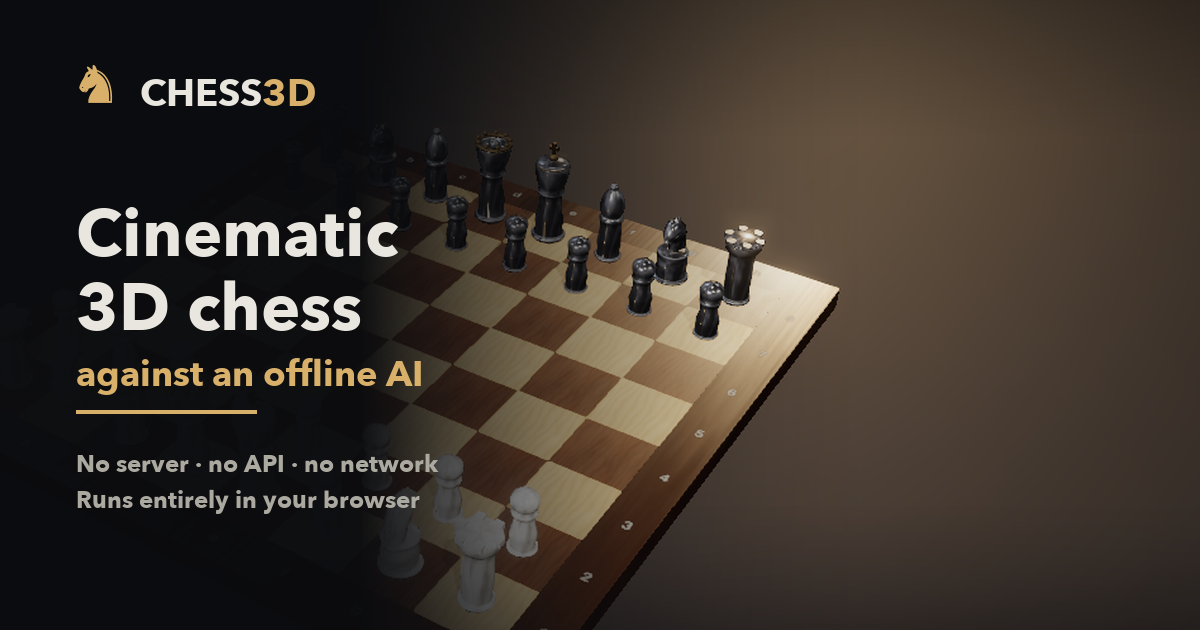
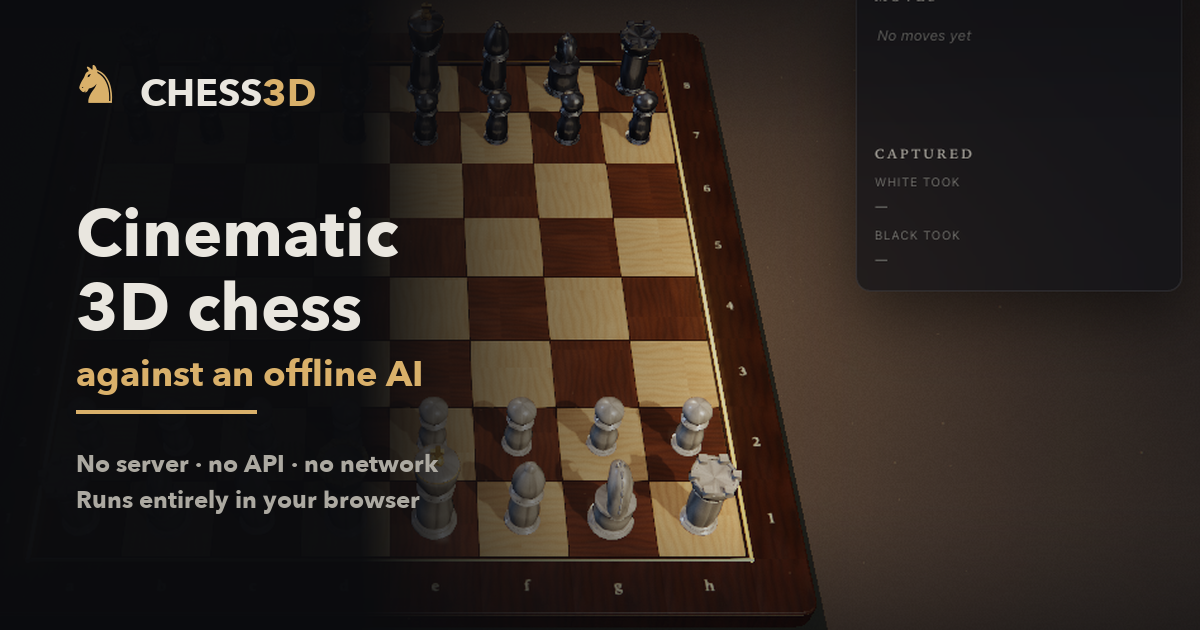
Show the current build in the README, and document how to capture it
The README's hero image and social card were captured on 16 September, before
the studio-lighting pass and the work on the piece profiles, so the first thing
a visitor saw was a build that no longer exists. Both are regenerated from the
current app at 1280x720; the card is composed from the same capture, exactly as
the README always claimed it could be.

tools/shot.mjs is what makes that reproducible. It drives a headless Chrome over
the DevTools Protocol, waits for the controller to reach a playable phase, checks
the canvas is the requested size, and waits for the camera to stop moving before
capturing. It refuses to write a frame from a page that never rendered and exits
non-zero on console errors, because a screenshot of a broken page still looks
plausible. Chrome's one-shot --screenshot mode hangs on this machine's WebGL
path, which is why the capture step was missing in the first place.

The Testing section now also describes what the geometry suite pins about the
cut edges, the hand-worked warp and build-order determinism.

diff --git a/README.md b/README.md
@@ -259,7 +259,12 @@ Eight suites run in plain Node:
   every test position, and must beat a random mover from the stronger tiers.
 - `tests/geometry.test.mjs` — the generated pieces must be closed solids wound
   outward, reach their declared heights, overlap their pedestals, taper in three
-  dimensions, and shade smoothly rather than faceted. These assertions caught
+  dimensions, and shade smoothly rather than faceted. Once the profiles became
+  cut work it also pins the surface finish: every piece must keep at least 128
+  coincident-but-disagreeing vertices (the arrises), the sharpest must exceed 45
+  degrees, the rook's straight body must report none of them, the hand-worked
+  warp must stay between 0.2% and 3% of the radius, and a piece must come out
+  identical whether it is the first or the fifth built. These assertions caught
   three real bugs after visual review had already passed the same builds: an
   inward-wound knight head that back-face culling hid entirely, a non-indexed
   merge that flattened its shading, and ears seated inside the skull.
@@ -398,12 +403,27 @@ image goes missing or the URLs drift from the deployed origin.
 
 ### Regenerating the images
 
+Two steps: capture the app, then compose the card.
+
 ```bash
-python3 tools/make-social-images.py   # needs Pillow and docs/hero-render.png
+# 1. capture the live app (needs a headless Chrome exposing CDP)
+npm run serve
+"/Applications/Google Chrome.app/Contents/MacOS/Google Chrome" \
+  --headless=new --remote-debugging-port=9222 \
+  --user-data-dir=/tmp/chess3d-cdp --window-size=1280,720 about:blank &
+node tools/shot.mjs --out docs/screenshot.png
+
+# 2. compose the social card from that capture (needs Pillow)
+cp docs/screenshot.png /tmp/hero-render.png
+python3 tools/make-social-images.py
 ```
 
-The script composes the card from a captured 3D render, so it can be rebuilt at
-any time rather than being a hand-edited binary.
+`tools/shot.mjs` waits for the controller to reach a playable phase, checks the
+canvas is the requested size, and waits for the camera to stop moving before it
+captures. It refuses to write a frame from a page that never rendered, and it
+exits non-zero if the console logged an error or a warning — a screenshot of a
+broken page still looks plausible. The card is composed from that capture, so
+both assets are rebuilt rather than hand-edited.
 
 ## Browser support
 
